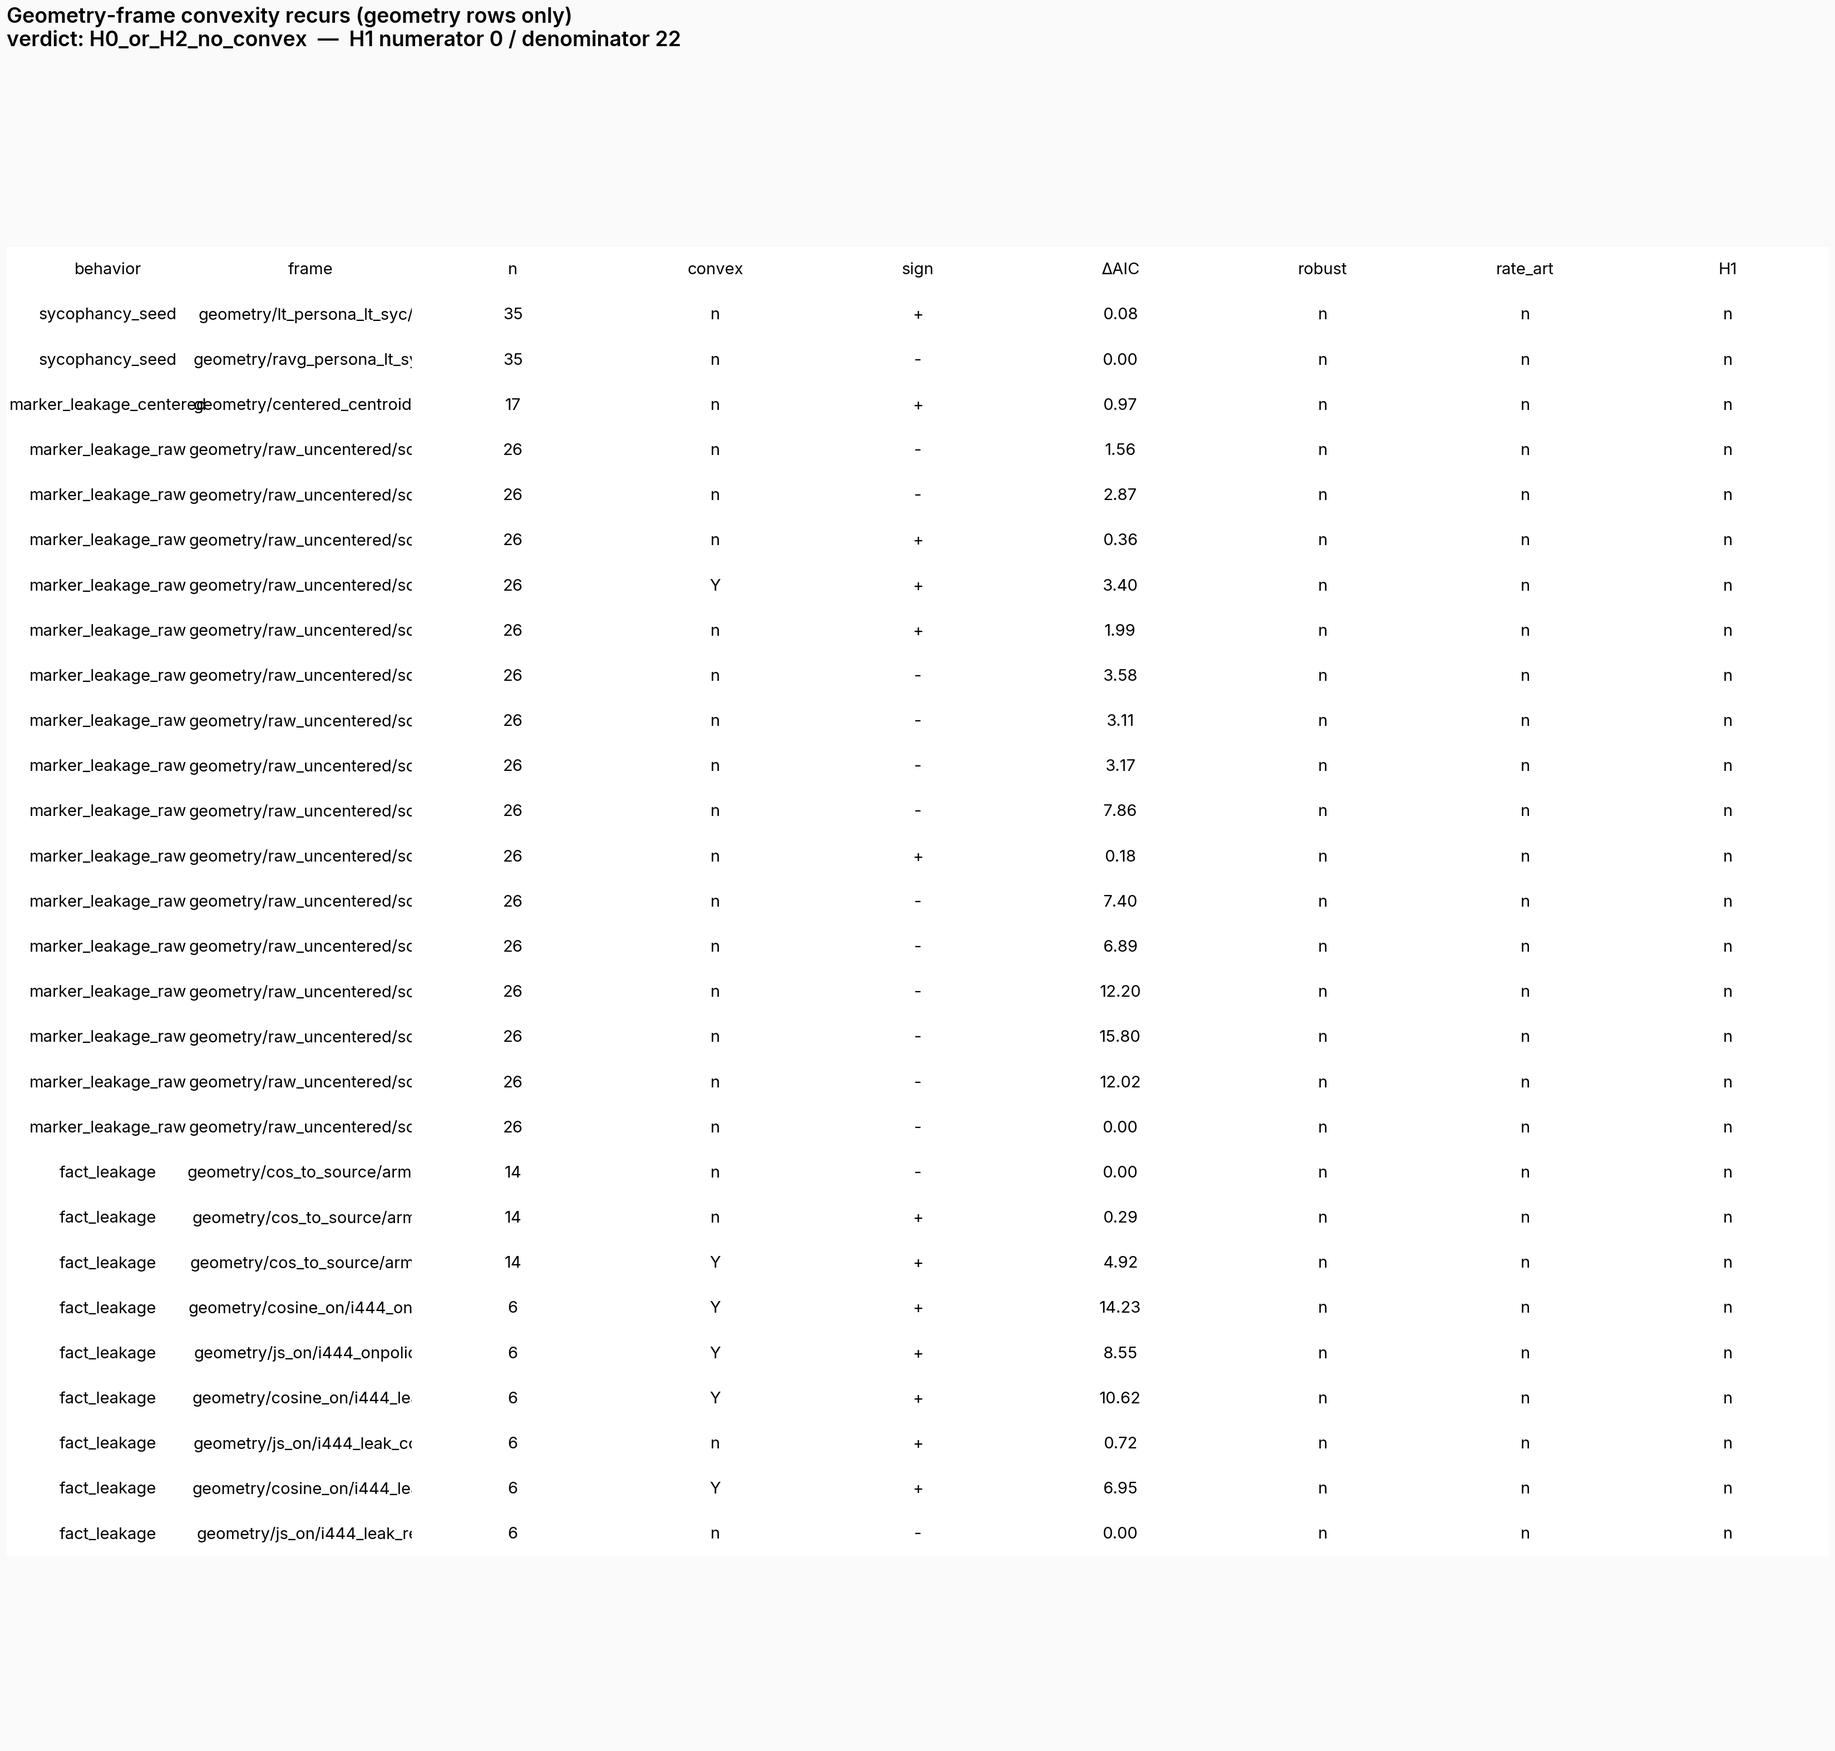
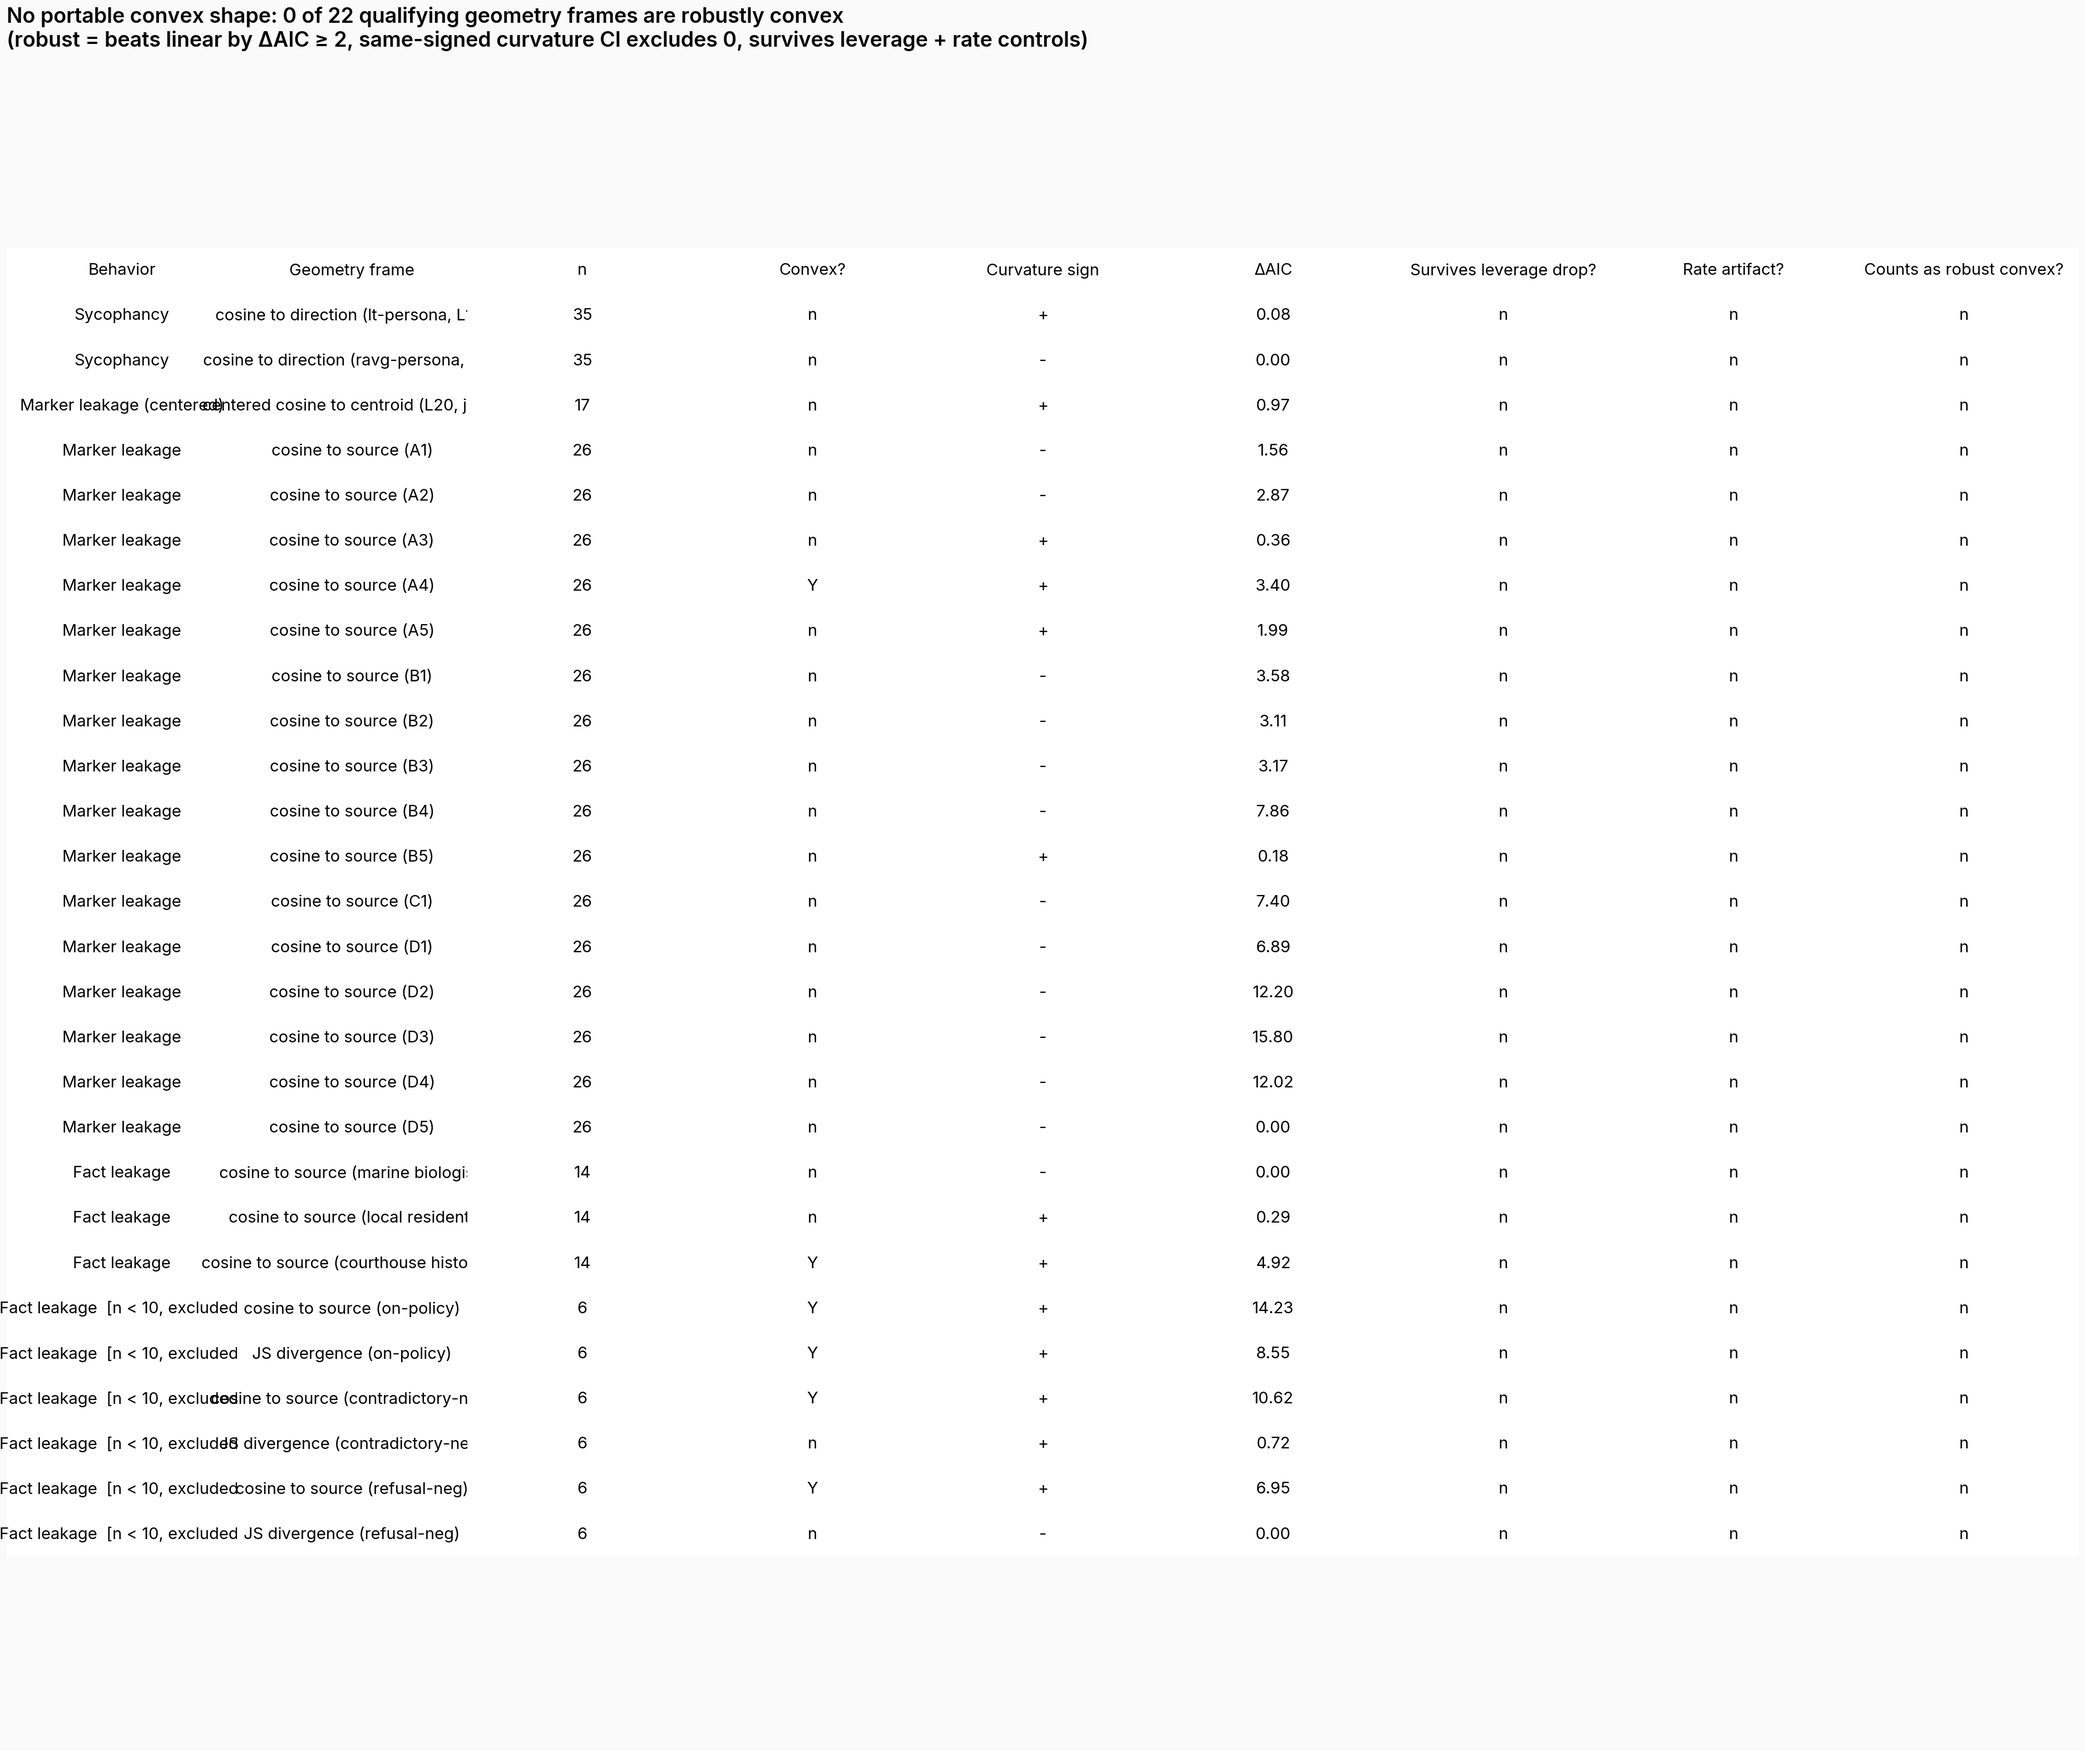
figures: issue #644 reader-facing labels on convexity table + raw-vs-logit overlay
Translate snake_case behavior keys, slash-path frame slugs, and code-style
columns to plain-English labels in the rendered figures (JSON row keys
unchanged — only rendered labels). Numbers identical: numerator 0 / denominator 22.

diff --git a/scripts/issue644_functional_form.py b/scripts/issue644_functional_form.py
@@ -161,6 +161,68 @@ def phase_aggregate(
 
 # --- Figures ------------------------------------------------------------------
 
+# Reader-facing label maps (figure-side mirror of the body's plain-English rule).
+# The underlying JSON row keys (behavior / frame) are the canonical join
+# identifiers and are NEVER changed here — only the RENDERED labels translate.
+_BEHAVIOR_LABELS = {
+    "sycophancy_seed": "Sycophancy",
+    "marker_leakage_centered": "Marker leakage (centered)",
+    "marker_leakage_raw": "Marker leakage",
+    "fact_leakage": "Fact leakage",
+    "refusal": "Refusal",
+}
+
+# Geometry-scalar kind -> reader-facing scalar name.
+_SCALAR_LABELS = {
+    "cosine_to_direction": "cosine to direction",
+    "cosine_to_source": "cosine to source",
+    "cosine_centered_centroid": "centered cosine to centroid",
+    "js": "JS divergence",
+    "prior_logprob": "base-prior log-prob",
+    "js_deprecated_single_next_token": "JS (deprecated single-token)",
+}
+
+# Per-arm slug -> short reader name (fact-leakage arms; marker source codes stay
+# as bare A1/B2/... — they are anonymous per-source labels with no English gloss).
+_ARM_LABELS = {
+    "arm_marine_biologist": "marine biologist",
+    "arm_local_resident": "local resident",
+    "arm_courthouse_architecture_historian": "courthouse historian",
+    "i444_onpolicy": "on-policy",
+    "i444_leak_contradictory_neg_sensitivity": "contradictory-neg",
+    "i444_leak_refusal_neg_sensitivity": "refusal-neg",
+}
+
+
+def _pretty_behavior(behavior: str) -> str:
+    """Translate a snake_case behavior key to a reader-facing label."""
+    return _BEHAVIOR_LABELS.get(behavior, behavior.replace("_", " ").title())
+
+
+def _pretty_frame(frame: str, geometry_scalar_kind: str) -> str:
+    """Translate a slash-separated frame slug to a reader-facing parenthetical.
+
+    Keeps the scalar name (from the geometry kind) up front and appends a short
+    descriptor pulled from the frame slug (layer, source code, arm name).
+    """
+    scalar = _SCALAR_LABELS.get(geometry_scalar_kind, geometry_scalar_kind.replace("_", " "))
+    parts = frame.split("/")
+    descriptors: list[str] = []
+    for p in parts[1:]:  # skip the leading geometry/sensitivity/prior bucket
+        if p.startswith("L") and p[1:].isdigit():
+            descriptors.append(p)  # layer, e.g. L14
+        elif p.startswith("source_"):
+            descriptors.append(p.split("_", 1)[1])  # A4, B2, ...
+        elif p.startswith("arm_") or p.startswith("i444"):
+            descriptors.append(_ARM_LABELS.get(p, p.replace("arm_", "").replace("_", " ")))
+        elif p == "joint":
+            descriptors.append("joint")
+        elif "persona" in p:
+            # lt_persona_lt_syc -> "lt-persona"; ravg_persona_lt_syc -> "ravg-persona"
+            descriptors.append(p.split("_persona")[0].replace("_", "-") + "-persona")
+    suffix = f" ({', '.join(descriptors)})" if descriptors else ""
+    return f"{scalar}{suffix}"
+
 
 def _render_convexity_table_figure(tables: dict[str, Any], stem_path: Path) -> None:
     """Render the cross-behavior geometry-recurs table as a figure (companion hero)."""
@@ -168,14 +230,29 @@ def _render_convexity_table_figure(tables: dict[str, Any], stem_path: Path) -> N
     rows = tables["geometry_recurs_table"]
     if not rows:
         return
-    headers = ["behavior", "frame", "n", "convex", "sign", "ΔAIC", "robust", "rate_art", "H1"]
+    headers = [
+        "Behavior",
+        "Geometry frame",
+        "n",
+        "Convex?",
+        "Curvature sign",
+        "ΔAIC",
+        "Survives leverage drop?",
+        "Rate artifact?",
+        "Counts as robust convex?",
+    ]
     cell_text = []
     for r in rows:
+        n = r.get("n", 0)
+        below_floor = isinstance(n, int) and n < 10
+        behavior_label = _pretty_behavior(r.get("behavior", ""))
+        if below_floor:
+            behavior_label += "  [n < 10, excluded]"
         cell_text.append(
             [
-                str(r.get("behavior", "")),
-                str(r.get("frame", ""))[:28],
-                str(r.get("n", "")),
+                behavior_label,
+                _pretty_frame(r.get("frame", ""), r.get("geometry_scalar_kind", "")),
+                str(n),
                 _fmt_bool(r.get("convex_wins")),
                 str(r.get("curvature_sign", "")),
                 _fmt_num(r.get("delta_aic_linear_to_best")),
@@ -185,18 +262,19 @@ def _render_convexity_table_figure(tables: dict[str, Any], stem_path: Path) -> N
             ]
         )
     fig_h = max(2.0, 0.35 * (len(cell_text) + 2))
-    fig, ax = plt.subplots(figsize=(11.0, fig_h))
+    fig, ax = plt.subplots(figsize=(12.5, fig_h))
     ax.axis("off")
     tbl = ax.table(cellText=cell_text, colLabels=headers, loc="center", cellLoc="center")
     tbl.auto_set_font_size(False)
     tbl.set_fontsize(7)
     tbl.scale(1.0, 1.3)
-    verdict = tables.get("majority_verdict", "?")
     num = tables["h1_numerator"]["n_convex_counts_toward_h1"]
     den = tables["h1_denominator"]["n_qualifying"]
     ax.set_title(
-        f"Geometry-frame convexity recurs (geometry rows only)\n"
-        f"verdict: {verdict}  —  H1 numerator {num} / denominator {den}",
+        f"No portable convex shape: {num} of {den} qualifying geometry frames "
+        f"are robustly convex\n"
+        f"(robust = beats linear by ΔAIC ≥ 2, same-signed curvature CI excludes 0, "
+        f"survives leverage + rate controls)",
         fontsize=9,
         loc="left",
     )
@@ -244,7 +322,7 @@ def _render_scatter_small_multiples(
         ci_lo = rec.get("curvature_ci_low")
         ci_hi = rec.get("curvature_ci_high")
         ax.set_title(
-            f"{s.behavior}\n{s.frame[:30]}\n"
+            f"{_pretty_behavior(s.behavior)}\n{_pretty_frame(s.frame, s.geometry_scalar_kind)}\n"
             f"ΔAIC={_fmt_num(daic)}  x²CI=[{_fmt_num(ci_lo)},{_fmt_num(ci_hi)}]",
             fontsize=7,
         )
@@ -289,8 +367,13 @@ def _render_exploratory_dump(
         ax.scatter(x, y, s=14, color=primary, alpha=0.8, label="raw rate")
         ax2 = ax.twinx()
         ax2.scatter(x, cm.logit_clip(y), s=14, color=accent, alpha=0.6, marker="^", label="logit")
-        rate_art = _fmt_bool(rec.get("rate_compression_artifact"))
-        ax.set_title(f"{s.behavior} {s.frame[:24]}\nrate_art={rate_art}", fontsize=7)
+        rate_art = "yes" if rec.get("rate_compression_artifact") else "no"
+        behavior_label = _pretty_behavior(s.behavior)
+        frame_label = _pretty_frame(s.frame, s.geometry_scalar_kind)
+        ax.set_title(
+            f"{behavior_label} — {frame_label}\nrate artifact: {rate_art}",
+            fontsize=7,
+        )
         ax.set_xlabel("geometry proximity")
         ax.set_ylabel("raw rate", color=primary)
         ax2.set_ylabel("logit(rate)", color=accent)
